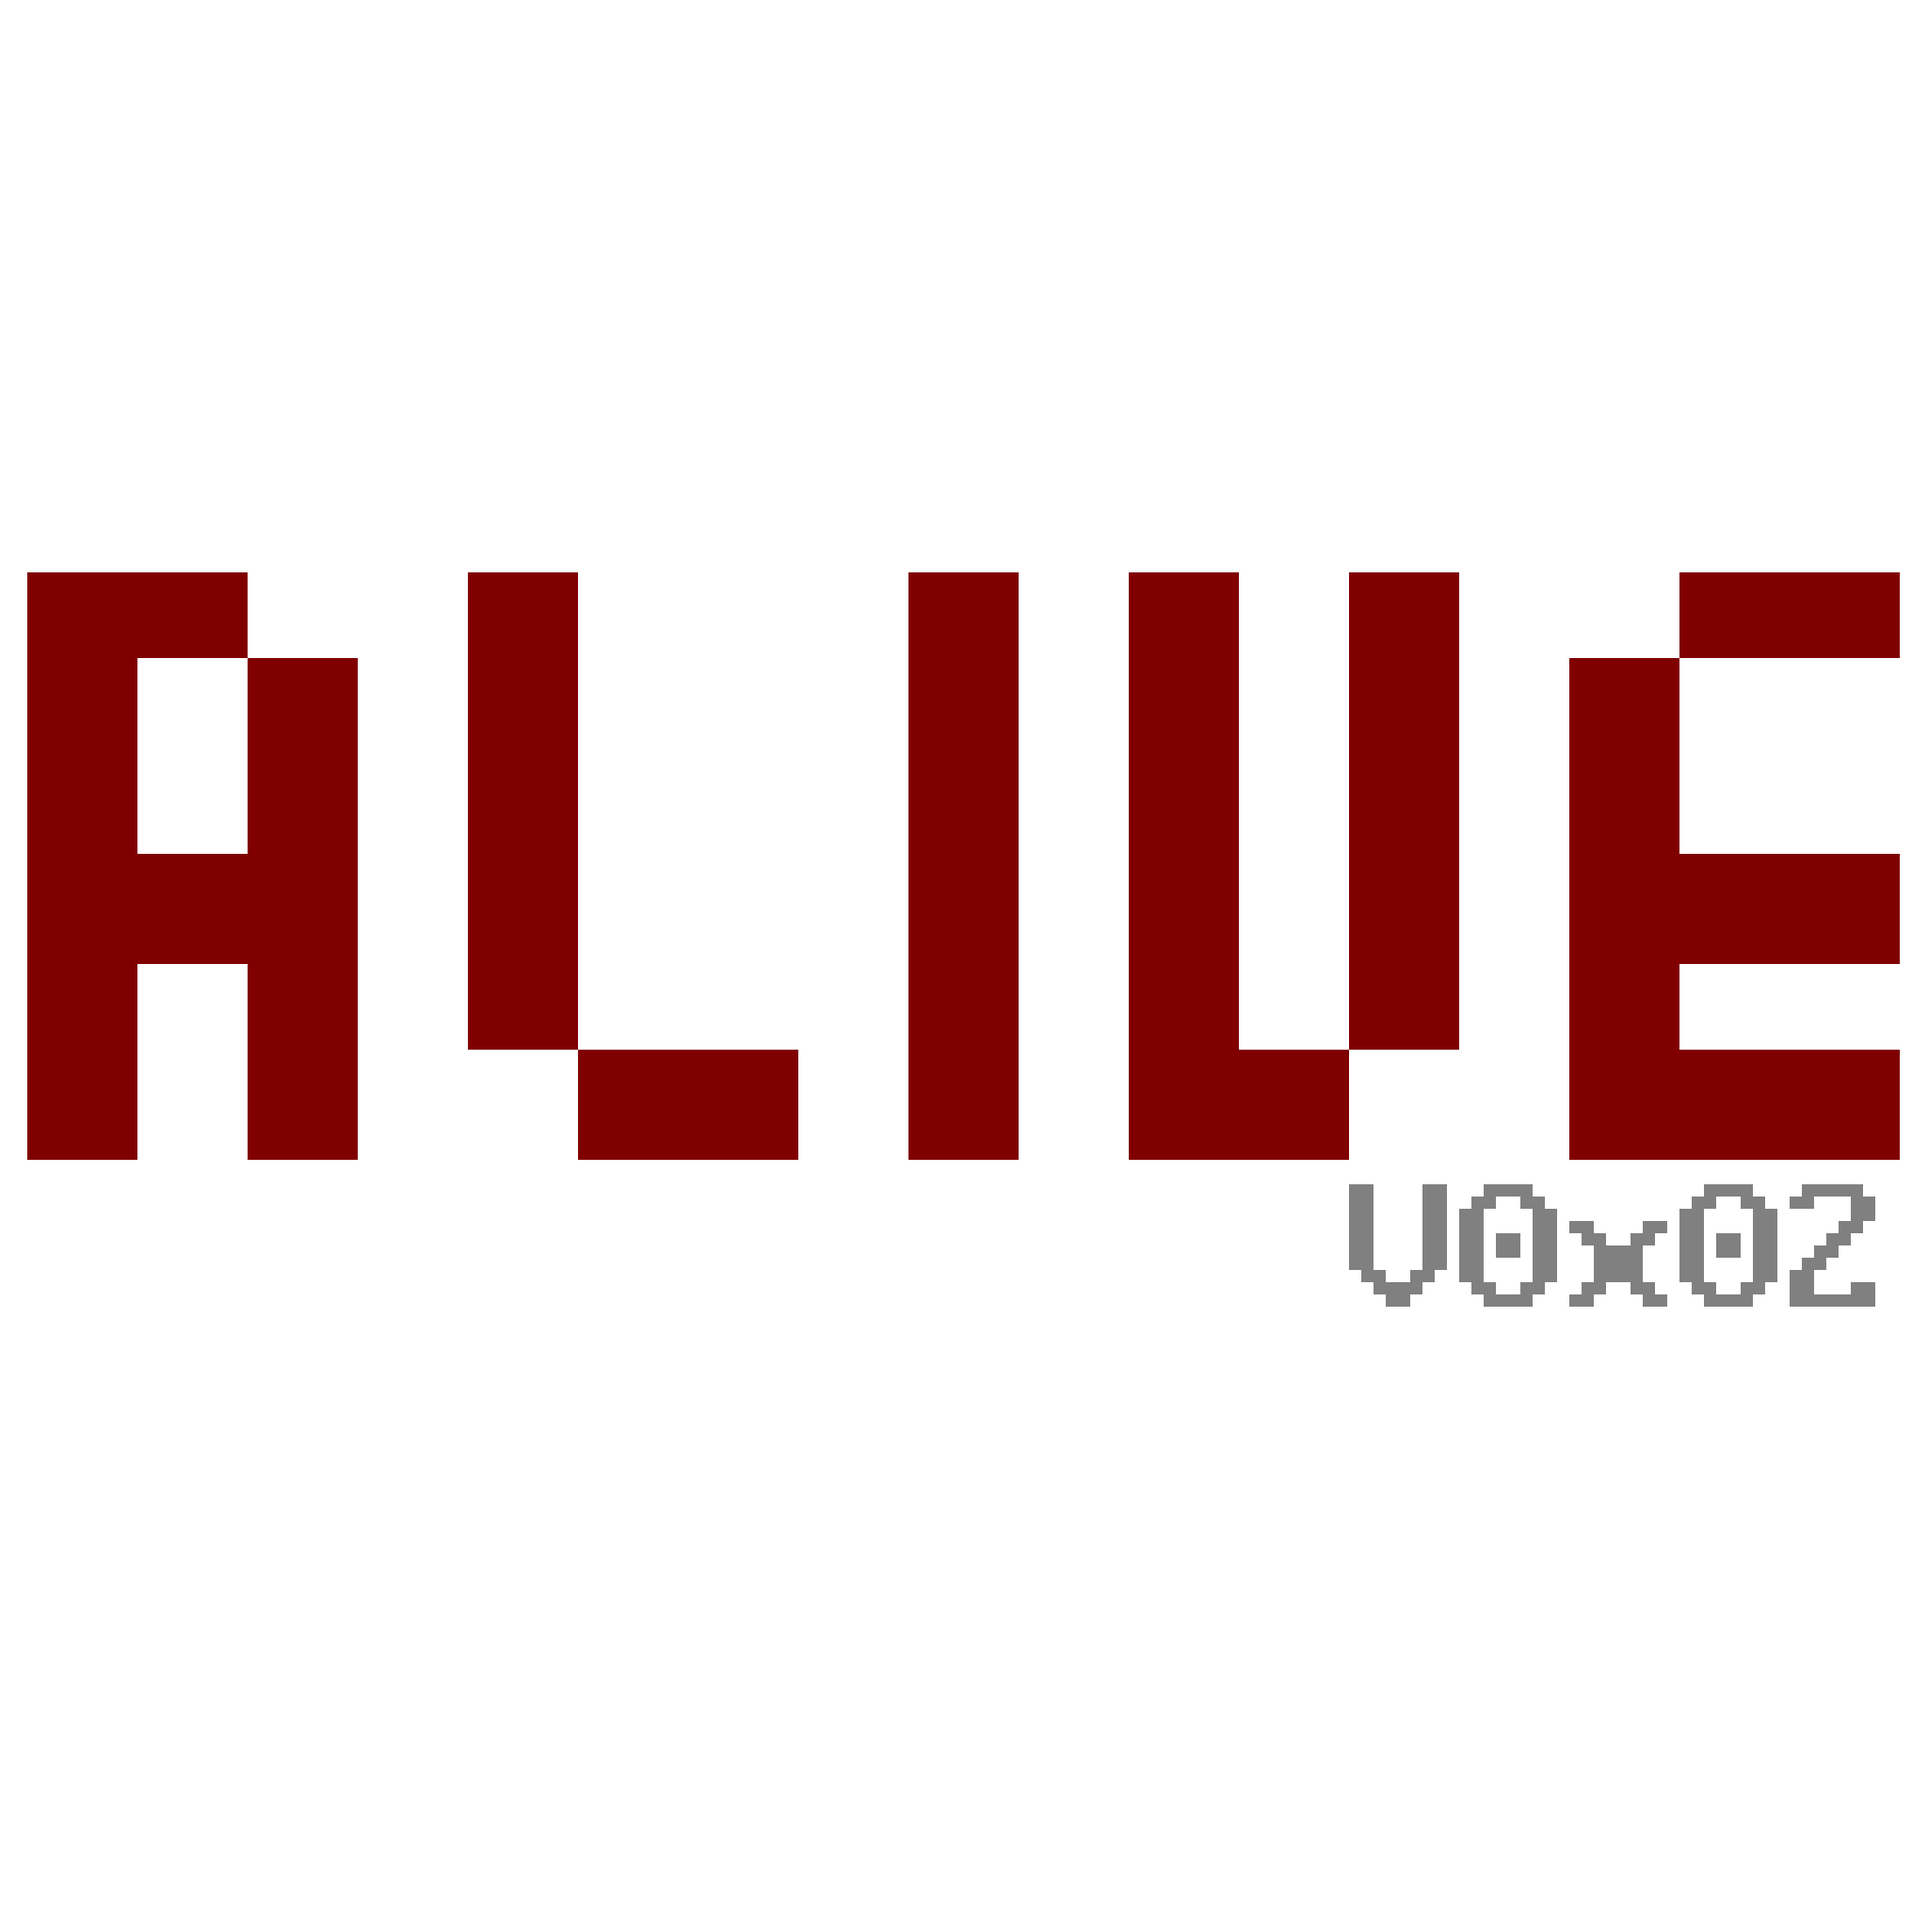
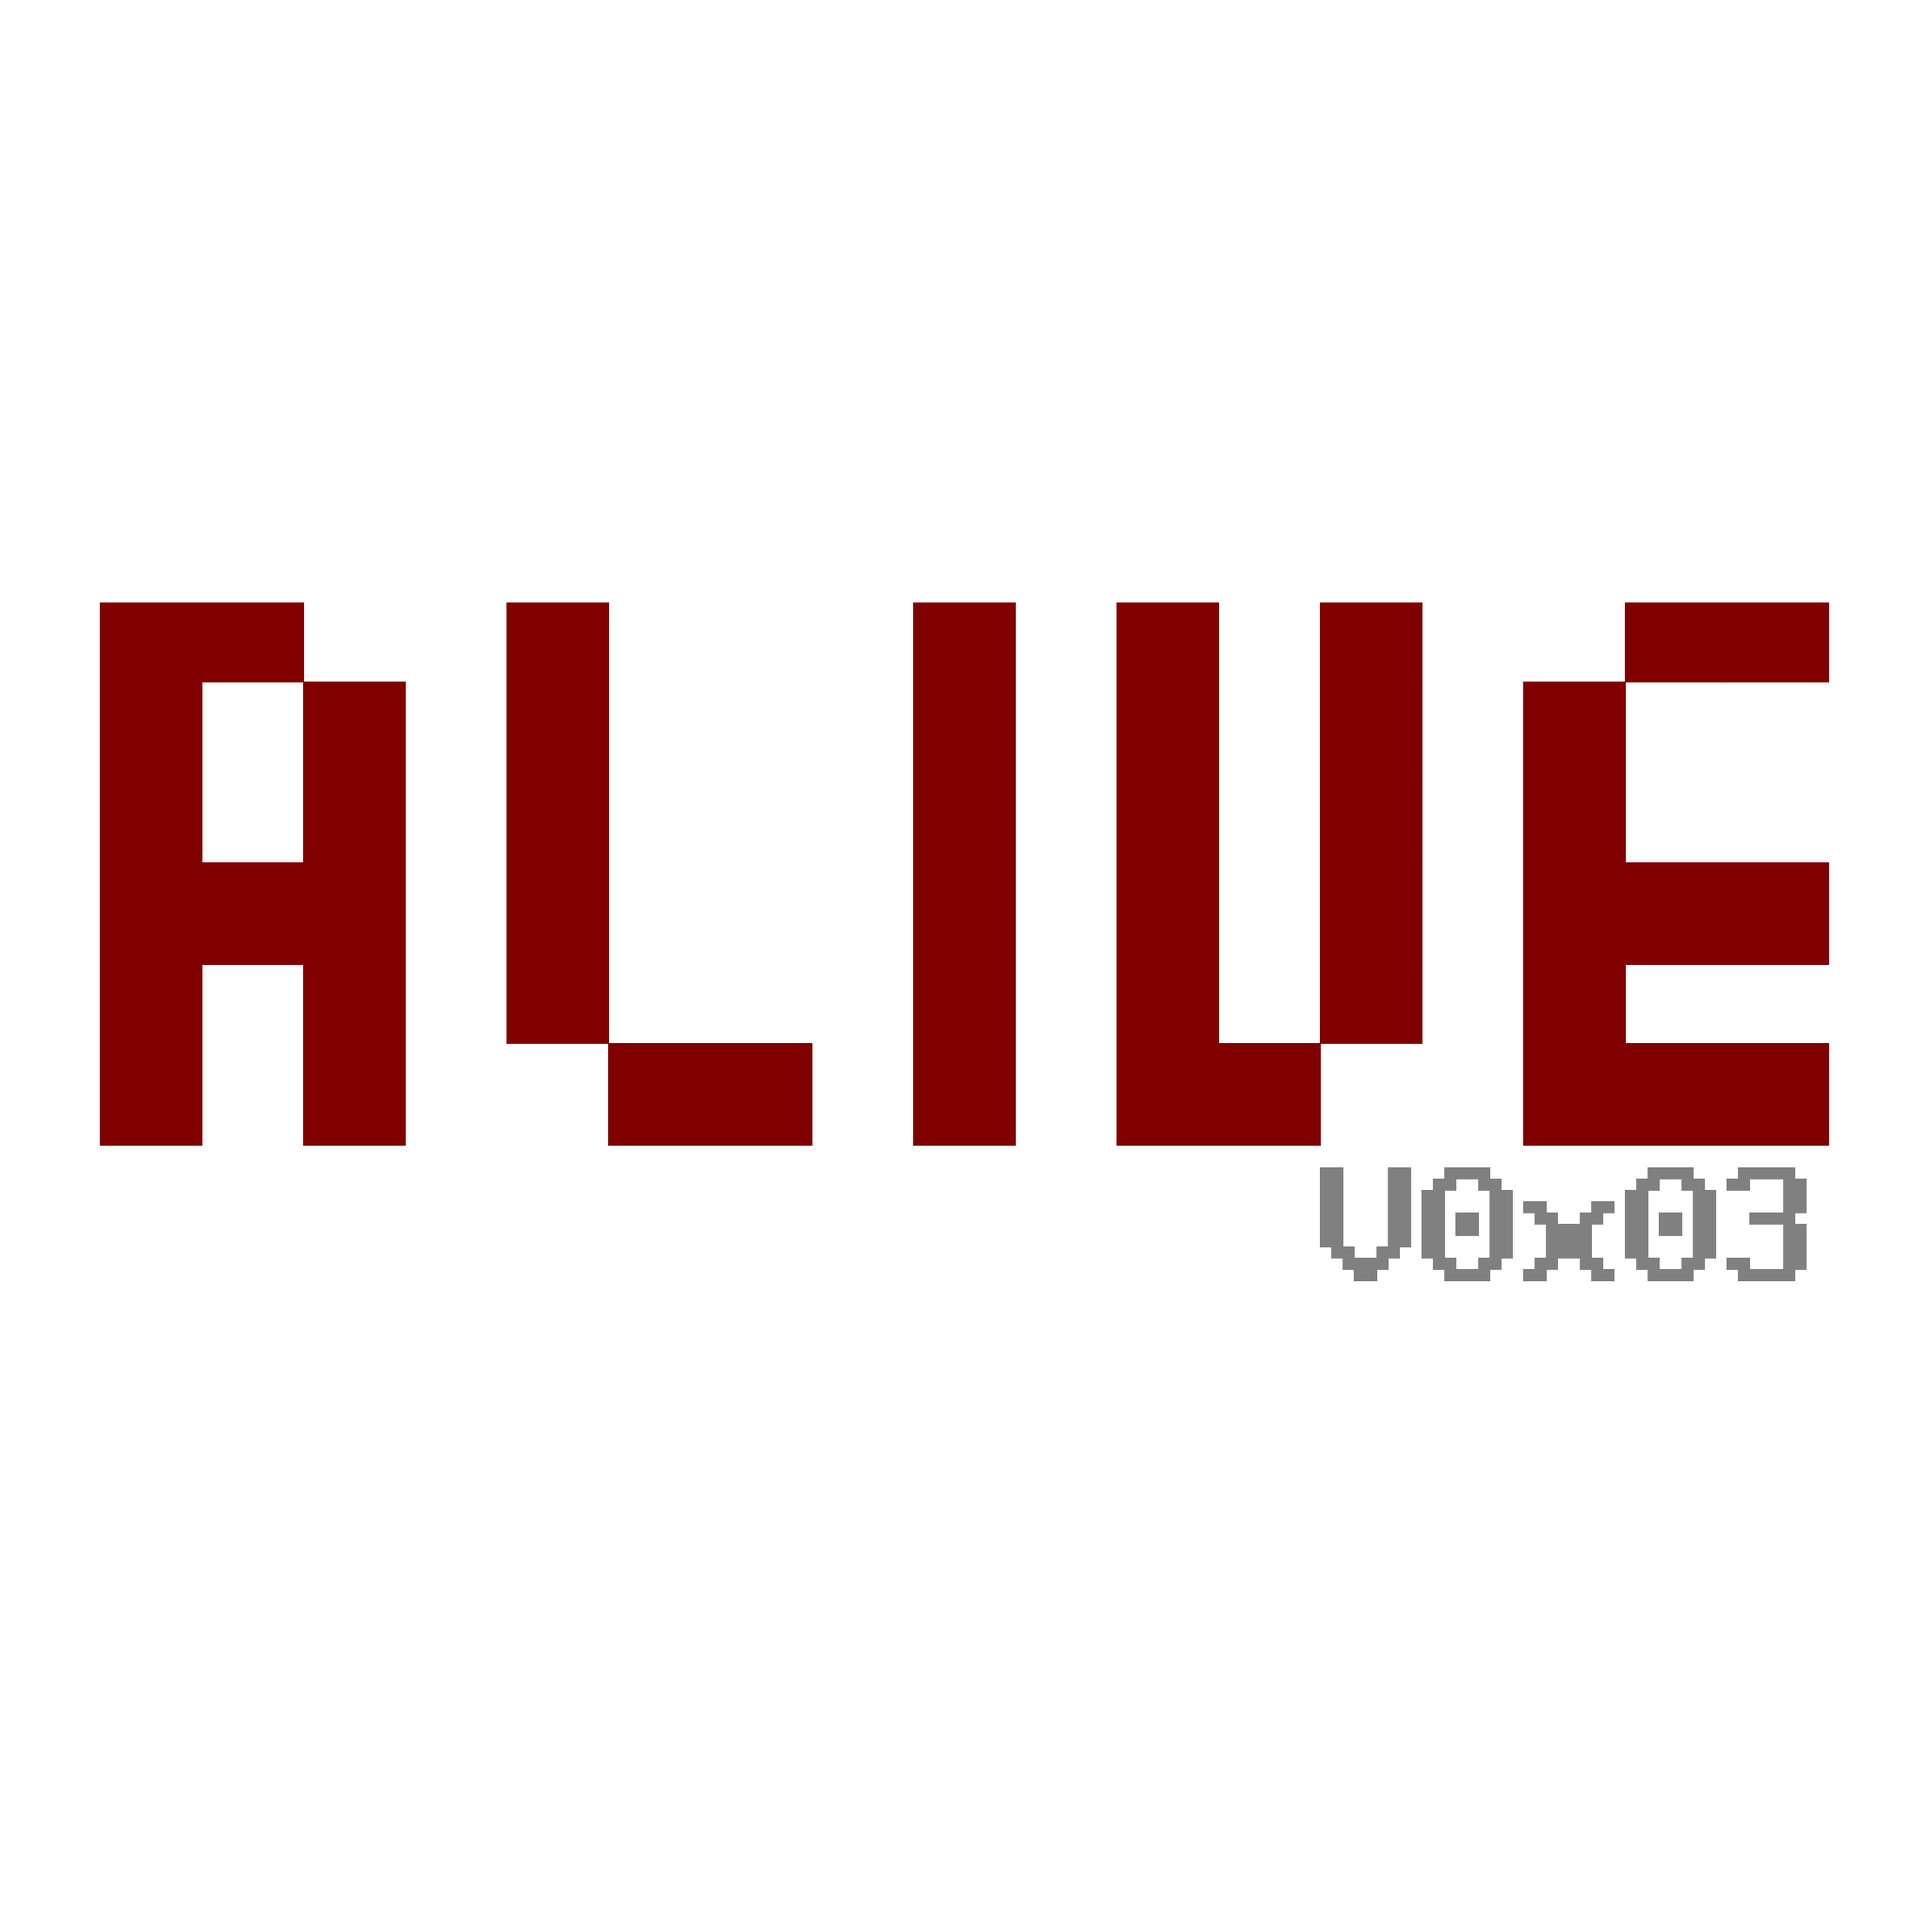
Bump version to 0.3

diff --git a/README.md b/README.md
@@ -12,6 +12,14 @@ Play it here: https://ab-und-zu.github.io/alive
 
 _Spawn area with intro quest_
 
+## Title headers
+
+After changing `version` in `package.json`, run `npm run media:titles` to
+regenerate both transparent `media/title-*.png` images (for example, `0.3`
+becomes `V0x03`). Requires ImageMagick 7 with `magick` on PATH. The script
+renders the menu's title layout using the bundled DOS font, game colors,
+and cell proportions; it does not need existing PNGs.
+
 ## Game modes
 
 - Adventure: Single player
